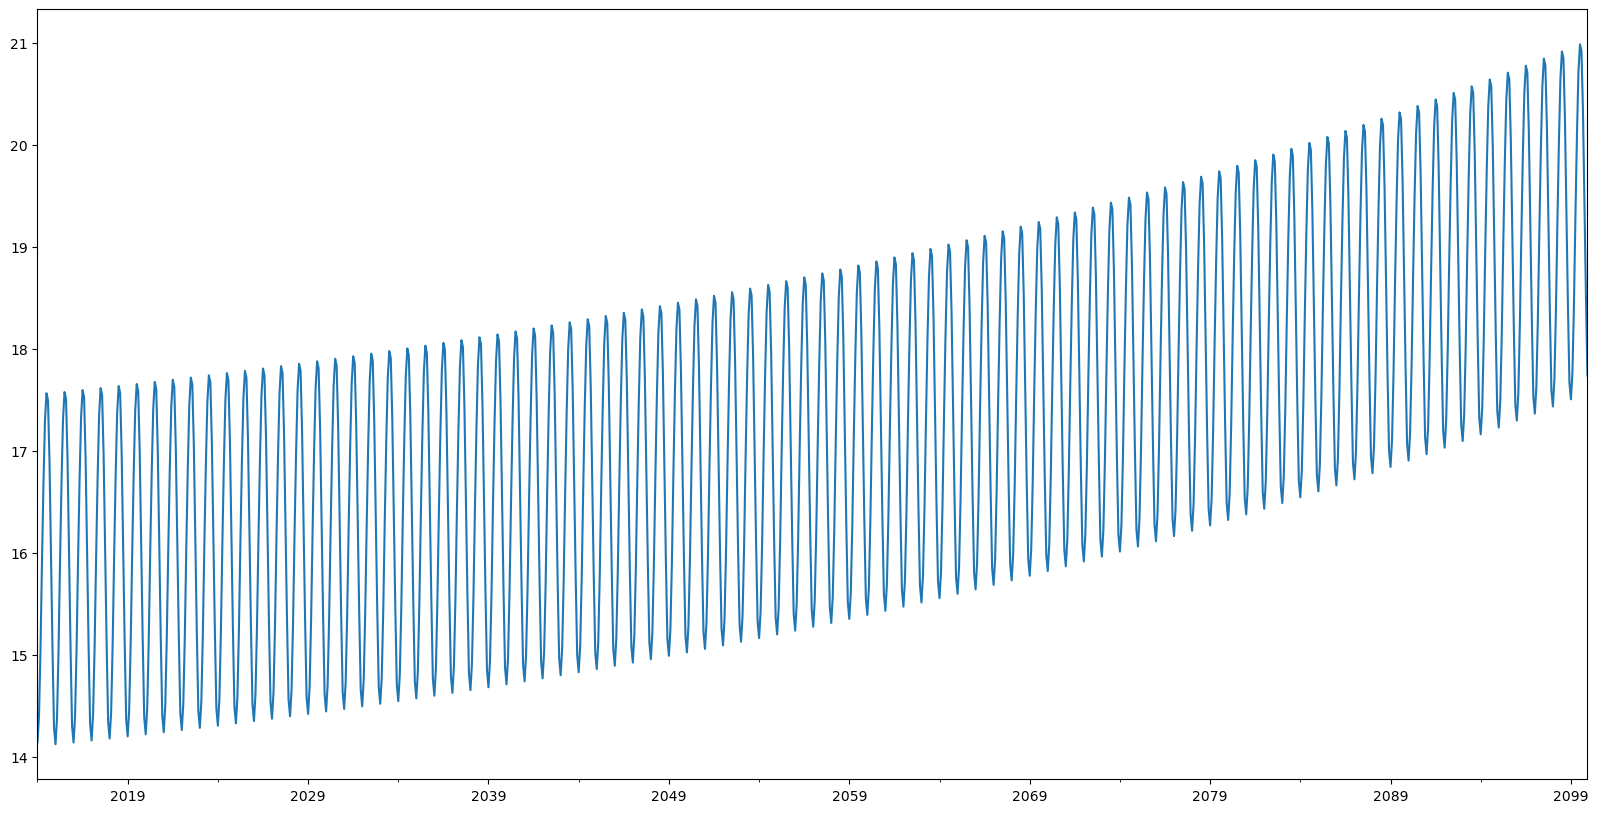
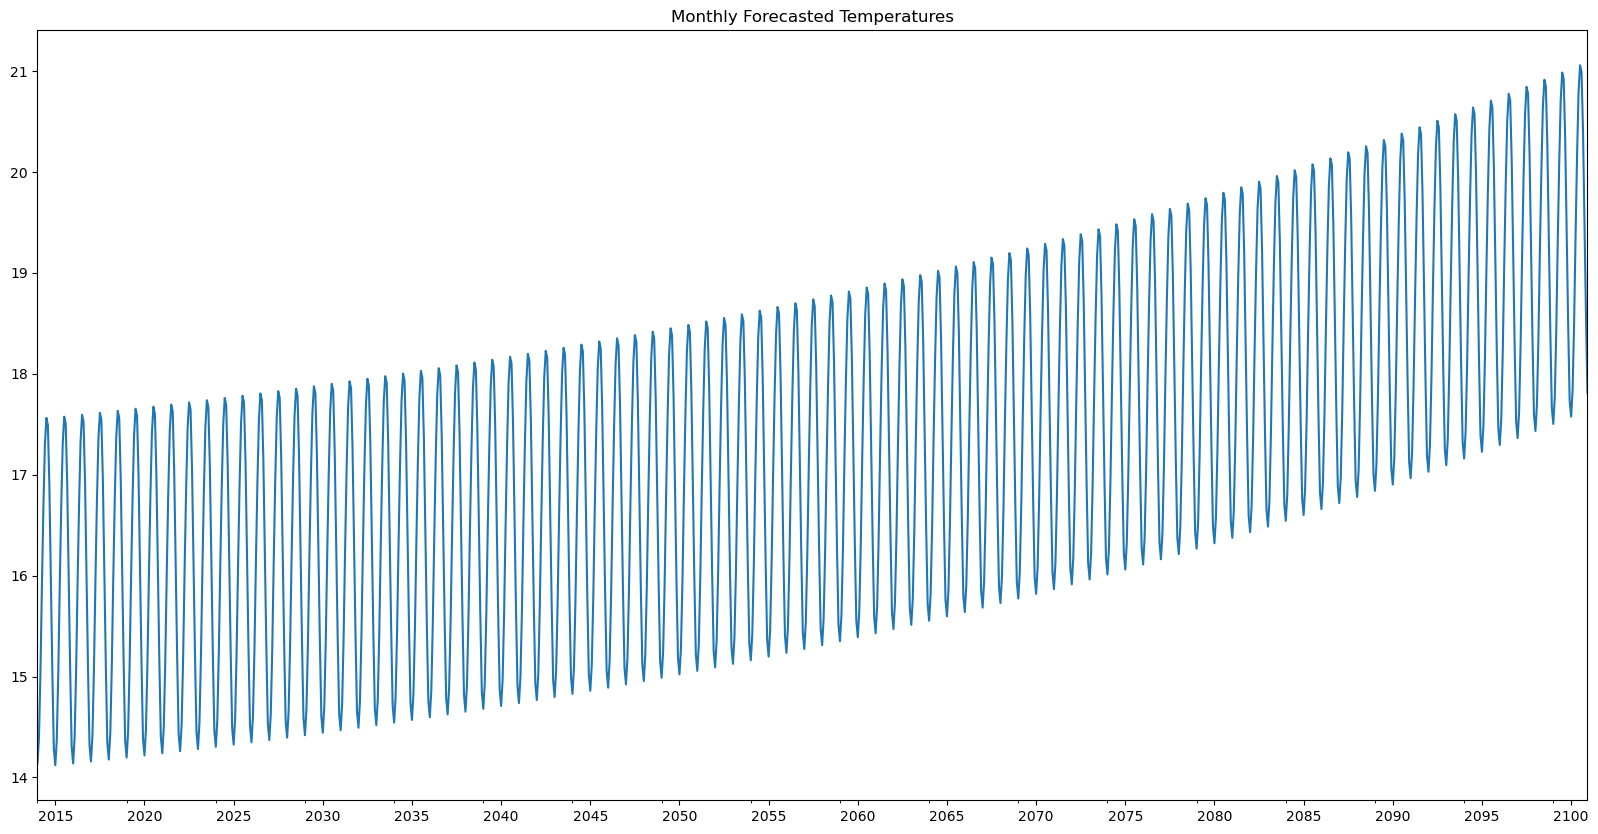
README.md update

diff --git a/climate-change-forecast.py b/climate-change-forecast.py
@@ -440,16 +440,30 @@ print(f'The baseline RMSE for the test baseline was {round(rmse_test_base, 4)} c
 print(f'The baseline RMSE for the test extrapolation was {round(rmse_test_extrap, 4)} celsius.')
 
 
-# In[25]:
+# In[38]:
 
 
 # check out the predicted values for the next years
 # print('{} celsius increase is expected for the average land surface temperature by the year 2100.'.format(round(sum(test['Pred'][-12:])/12 - base_average, 1)))
 
-monthly_forecast = result.forecast(steps=12*86)
+monthly_forecast = result.forecast(steps=12*87)
 print(round(sum(monthly_forecast[-12:])/12 - base_average, 1) ,'celsius increase is expected for the average global surface temperature by the year 2100.')
-monthly_forecast.plot(figsize=(20,10))
+monthly_forecast.plot(figsize=(20,10), title='Monthly Forecasted Temperatures')
+ticks = [str(x) + "-01-01" for x in range(2015,2101,5)]
+plt.xticks(ticks, labels=[x for x in range(2015,2101,5)])
 plt.show()
 
 
 # I hope you like this analysis. If you have any doubt or comment, feel free to contact me via [github](https://github.com/guyanik).
+
+# In[37]:
+
+
+monthly_forecast.tail(12)
+
+
+# In[ ]:
+
+
+
+
